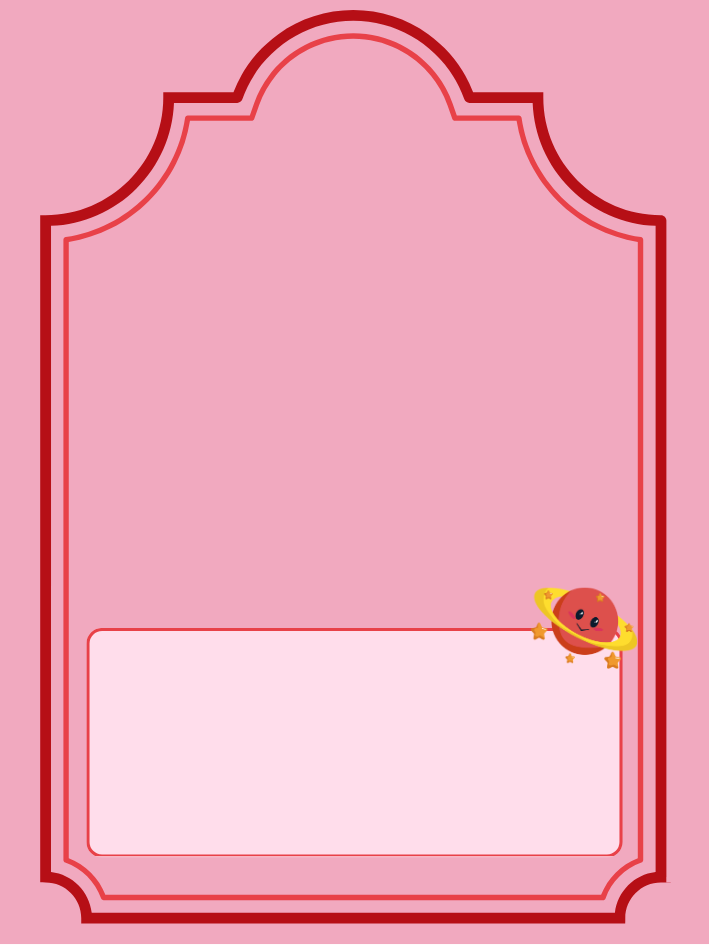
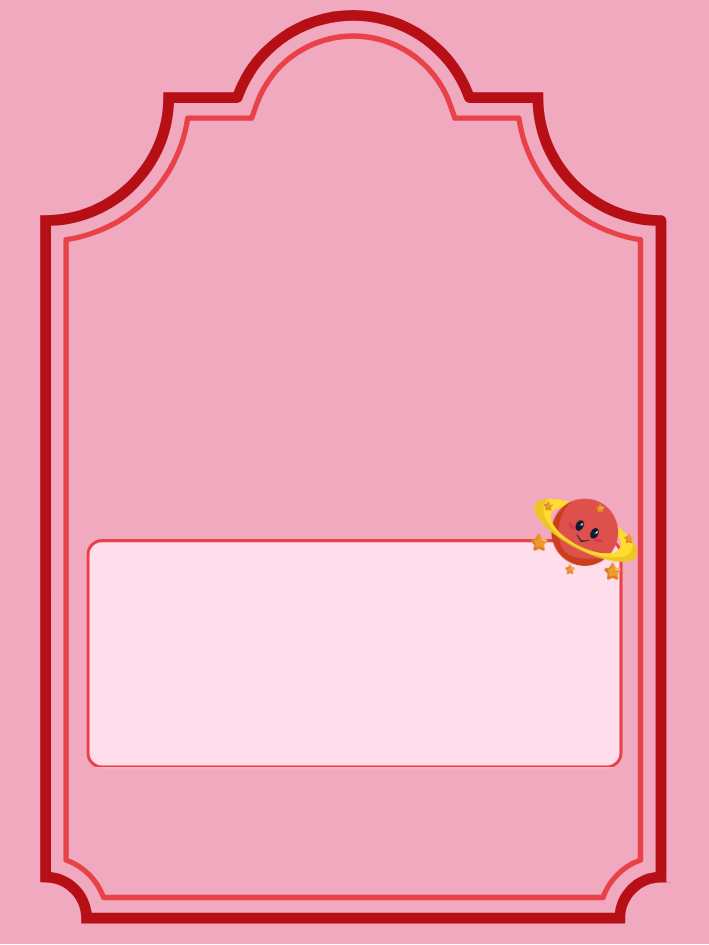
New mission artwork, measured, with the character above the question
All fifteen mission frames replaced with the redrawn set. Most of them now draw
the layout explicitly - a window or a dome for the character up top, a box below
it for the words - so the four tables were re-measured against the new files
rather than adjusted.

Ten of the fifteen draw the question box as a distinct colour, which the band
scan finds on its own; 1, 2, 3, 4 and 8 leave one open area instead, and those
are split, the character taking the upper part and the question a box of at
least 22% of the card below it. Every frame now has a hero window, so every
frame is listed in EXACT_BANDS - there is nothing left for MIN_BAND to widen.

13 and 14 still paint a dark box and keep their white question. 2 keeps its
white caption; 13's caption now falls on the pale strip below its box, so it
goes back to dark ink.

The words are also centred in the band now instead of sitting at the top of it.
The band is the same size either way, so this costs nothing and stops the first
line pressing against the border of the box the frame drew.

The new set is more even than the old one, and the type follows: a deck whose
longest question is 14 characters is set at one size on all fifteen designs, and
at 104 characters the spread is 7.6 to 11.5px where the old set ran 6.6 to 11.5.
Checked at 14, 73, 104 and 147 characters against all fifteen: nothing overflows.

Move frames are untouched and still pair by colour, design for design.

Changed region(s): [[0.1241, 0.5217, 0.8999, 0.7058], [0.1241, 0.7979, 0.8999, 0.9206]]

diff --git a/assets/css/print.css b/assets/css/print.css
@@ -459,6 +459,16 @@ html, body {
   word-break: break-word;
   hyphens: auto;
 }
+/*
+ * On a framed card the question grows to fill the band, and the words sat at
+ * the top of it - hard against the border of the box the frame drew. Centring
+ * the block inside the space it was given costs nothing (the box is the same
+ * size either way) and leaves the same air above the first line as below the
+ * last. Grid rather than flex: a flex item would size itself to the longest
+ * word and stop wrapping.
+ */
+.card-cut--framed .card-cut__q { display: grid; align-content: center; }
+
 .card-cut__q--lg { font-size: 14px;  line-height: 1.35; }
 .card-cut__q--sm { font-size: 10px;  line-height: 1.35; }
 .card-cut__q--xs { font-size: 8.6px; line-height: 1.3; }

diff --git a/app/Services/PrintBundle.php b/app/Services/PrintBundle.php
@@ -460,21 +460,21 @@ class PrintBundle
      * Adjust a row here if a frame reads badly; nothing else needs touching.
      */
     public const SAFE_ZONES = [
-        1  => ['mission' => [17.8, 21.9], 'move' => [22.8, 23.1]],
-        2  => ['mission' => [19.1, 11.2], 'move' => [24.4, 24.4]],
-        3  => ['mission' => [28.4, 14.7], 'move' => [25.9, 25.6]],
-        4  => ['mission' => [20.0, 10.6], 'move' => [25.9, 25.9]],
-        5  => ['mission' => [22.0, 20.0], 'move' => [23.4, 23.1]],
-        6  => ['mission' => [67.0, 11.0], 'move' => [22.8, 22.8]],
-        7  => ['mission' => [66.0, 10.0], 'move' => [24.4, 24.7]],
-        8  => ['mission' => [24.7, 10.0], 'move' => [23.4, 23.4]],
-        9  => ['mission' => [67.0, 10.0], 'move' => [26.6, 22.0]],
-        10 => ['mission' => [55.0, 26.0], 'move' => [26.6, 26.6]],
-        11 => ['mission' => [66.0, 17.0], 'move' => [26.6, 26.6]],
-        12 => ['mission' => [8.0, 68.0], 'move' => [21.9, 22.2]],
-        13 => ['mission' => [68.0, 10.0], 'move' => [21.9, 21.6]],
-        14 => ['mission' => [66.0, 12.0], 'move' => [23.8, 23.8]],
-        15 => ['mission' => [65.0, 8.0], 'move' => [23.4, 23.8]],
+        1 => ['mission' => [54.0, 24.0], 'move' => [22.8, 23.1]],
+        2 => ['mission' => [62.0, 13.0], 'move' => [24.4, 24.4]],
+        3 => ['mission' => [62.0, 15.0], 'move' => [25.9, 25.6]],
+        4 => ['mission' => [66.0, 10.0], 'move' => [25.9, 25.9]],
+        5 => ['mission' => [51.4, 18.7], 'move' => [23.4, 23.1]],
+        6 => ['mission' => [62.1, 17.8], 'move' => [22.8, 22.8]],
+        7 => ['mission' => [58.9, 16.8], 'move' => [24.4, 24.7]],
+        8 => ['mission' => [67.0, 9.0], 'move' => [23.4, 23.4]],
+        9 => ['mission' => [58.3, 19.2], 'move' => [26.6, 22.0]],
+        10 => ['mission' => [51.9, 26.3], 'move' => [26.6, 26.6]],
+        11 => ['mission' => [57.9, 19.9], 'move' => [26.6, 26.6]],
+        12 => ['mission' => [55.9, 16.7], 'move' => [21.9, 22.2]],
+        13 => ['mission' => [56.4, 18.0], 'move' => [21.9, 21.6]],
+        14 => ['mission' => [65.5, 11.5], 'move' => [23.8, 23.8]],
+        15 => ['mission' => [61.3, 12.8], 'move' => [23.4, 23.8]],
     ];
 
     /**
@@ -488,21 +488,21 @@ class PrintBundle
      * Capped at 94: a line centred lower than that lands on the cut edge.
      */
     public const CAPTION_AT = [
-        1   => ['mission' => 93.2, 'move' => 87.1],
-        2   => ['mission' => 94.0, 'move' => 86.4],
-        3   => ['mission' => null, 'move' => 84.1],
-        4   => ['mission' => null, 'move' => 81.2],
-        5   => ['mission' => null, 'move' => 87.0],
-        6   => ['mission' => null, 'move' => 87.3],
-        7   => ['mission' => 93.0, 'move' => 86.1],
-        8   => ['mission' => 94.0, 'move' => 94.0],
-        9   => ['mission' => null, 'move' => 92.1],
-        10  => ['mission' => null, 'move' => 78.6],
-        11  => ['mission' => 86.1, 'move' => 81.4],
-        12  => ['mission' => 93.0, 'move' => 87.7],
-        13  => ['mission' => null, 'move' => 87.9],
-        14  => ['mission' => 92.5, 'move' => 86.8],
-        15  => ['mission' => null, 'move' => 86.8],
+        1 => ['mission' => 93.0, 'move' => 87.1],
+        2 => ['mission' => 94.0, 'move' => 86.4],
+        3 => ['mission' => null, 'move' => 84.1],
+        4 => ['mission' => 93.0, 'move' => 81.2],
+        5 => ['mission' => 88.0, 'move' => 87.0],
+        6 => ['mission' => 86.0, 'move' => 87.3],
+        7 => ['mission' => 89.0, 'move' => 86.1],
+        8 => ['mission' => 95.0, 'move' => 94.0],
+        9 => ['mission' => 88.0, 'move' => 92.1],
+        10 => ['mission' => null, 'move' => 78.6],
+        11 => ['mission' => 85.0, 'move' => 81.4],
+        12 => ['mission' => 90.0, 'move' => 87.7],
+        13 => ['mission' => 87.0, 'move' => 87.9],
+        14 => ['mission' => 92.0, 'move' => 86.8],
+        15 => ['mission' => 92.0, 'move' => 86.8],
     ];
 
     /**
@@ -518,14 +518,13 @@ class PrintBundle
      * its box small beats a question outside it large.
      */
     private const EXACT_BANDS = [
-        6  => ['mission' => true],
-        7  => ['mission' => true],
-        9  => ['mission' => true],
-        10 => ['mission' => true],
-        11 => ['mission' => true],
-        12 => ['mission' => true],
-        13 => ['mission' => true],
-        14 => ['mission' => true],
+        1  => ['mission' => true],  2  => ['mission' => true],
+        3  => ['mission' => true],  4  => ['mission' => true],
+        5  => ['mission' => true],  6  => ['mission' => true],
+        7  => ['mission' => true],  8  => ['mission' => true],
+        9  => ['mission' => true],  10 => ['mission' => true],
+        11 => ['mission' => true],  12 => ['mission' => true],
+        13 => ['mission' => true],  14 => ['mission' => true],
         15 => ['mission' => true],
     ];
 
@@ -539,7 +538,7 @@ class PrintBundle
      * separately from the words.
      */
     public const REVERSE_BAND    = [2 => true, 13 => true, 14 => true];
-    public const REVERSE_CAPTION = [2 => true, 13 => true];
+    public const REVERSE_CAPTION = [2 => true];
 
     /** Does this style print its question in white? */
     public static function reversed(int $style): bool
@@ -569,9 +568,21 @@ class PrintBundle
      * those reads as a character in front of a picture.
      */
     private const HERO_WINDOWS = [
-        11 => ['mission' => ['top' => 22.0, 'height' => 41.0, 'left' =>  9.0, 'right' =>  9.0]],
-        12 => ['mission' => ['top' => 47.0, 'height' => 31.0, 'left' => 21.0, 'right' => 21.0]],
-        13 => ['mission' => ['top' => 20.0, 'height' => 45.0, 'left' =>  9.0, 'right' =>  9.0]],
+        1  => ['mission' => ['top' => 17.8, 'height' => 34.2, 'left' =>  9.0, 'right' =>  9.0]],
+        2  => ['mission' => ['top' => 19.3, 'height' => 40.7, 'left' =>  9.0, 'right' =>  9.0]],
+        3  => ['mission' => ['top' => 28.5, 'height' => 31.5, 'left' =>  9.0, 'right' =>  9.0]],
+        4  => ['mission' => ['top' => 20.0, 'height' => 44.0, 'left' =>  9.0, 'right' =>  9.0]],
+        5  => ['mission' => ['top' =>  3.5, 'height' => 45.3, 'left' =>  9.0, 'right' =>  9.0]],
+        6  => ['mission' => ['top' =>  5.6, 'height' => 53.7, 'left' => 11.0, 'right' => 11.0]],
+        7  => ['mission' => ['top' => 17.7, 'height' => 27.5, 'left' => 16.0, 'right' => 16.0]],
+        8  => ['mission' => ['top' => 24.8, 'height' => 40.2, 'left' =>  9.0, 'right' =>  9.0]],
+        9  => ['mission' => ['top' => 21.5, 'height' => 31.2, 'left' => 12.0, 'right' => 12.0]],
+        10 => ['mission' => ['top' => 17.0, 'height' => 34.4, 'left' => 12.0, 'right' => 12.0]],
+        11 => ['mission' => ['top' => 21.0, 'height' => 36.4, 'left' => 12.0, 'right' => 12.0]],
+        12 => ['mission' => ['top' =>  7.3, 'height' => 46.5, 'left' => 12.0, 'right' => 12.0]],
+        13 => ['mission' => ['top' => 18.4, 'height' => 37.8, 'left' =>  9.0, 'right' =>  9.0]],
+        14 => ['mission' => ['top' => 17.7, 'height' => 47.7, 'left' =>  9.0, 'right' =>  9.0]],
+        15 => ['mission' => ['top' => 19.5, 'height' => 41.3, 'left' => 12.0, 'right' => 12.0]],
     ];
 
     /**

diff --git a/tools/audit-mission-cards.php b/tools/audit-mission-cards.php
@@ -14,6 +14,11 @@ use App\Services\PrintBundle;
 
 $mode = $argv[1] ?? 'one';
 
+// Optional "first-last" range, so one row can be looked at on its own
+[$from, $to] = array_pad(explode('-', $argv[2] ?? ''), 2, null);
+$from = (int) ($from ?: 1);
+$to   = (int) ($to ?: PrintBundle::CARD_STYLES);
+
 $QUESTIONS = [
     'short'  => 'What is 7 + 5?',
     'medium' => 'Cora has 7 conkers and finds exactly the same number again. How many now?',
@@ -30,7 +35,7 @@ $pose = '/uploads/library/characters/char-01-1.png';
 $css = [];
 $cards = [];
 
-for ($style = 1; $style <= PrintBundle::CARD_STYLES; $style++) {
+for ($style = $from; $style <= $to; $style++) {
     $rel = Library::framePath('missions', $style);
     $css[] = ".s{$style} { background-image: url('/uploads/{$rel}'); }";
 
@@ -73,7 +78,7 @@ for ($style = 1; $style <= PrintBundle::CARD_STYLES; $style++) {
     }
 }
 
-$cols = $mode === 'one' ? 4 : count($QUESTIONS);
+$cols = $mode === 'one' ? 3 : count($QUESTIONS);
 
 $html = '<!doctype html><meta charset="utf-8"><title>Mission frames</title>'
       . '<link rel="stylesheet" href="/assets/css/print.css">'

diff --git a/app/bootstrap.php b/app/bootstrap.php
@@ -5,7 +5,7 @@
  */
 
 define('GC_ROOT', dirname(__DIR__));
-define('GC_VERSION', '1.2.2');
+define('GC_VERSION', '1.2.3');
 
 // --- Namespace autoloader (no Composer needed) ---
 spl_autoload_register(function (string $class): void {
